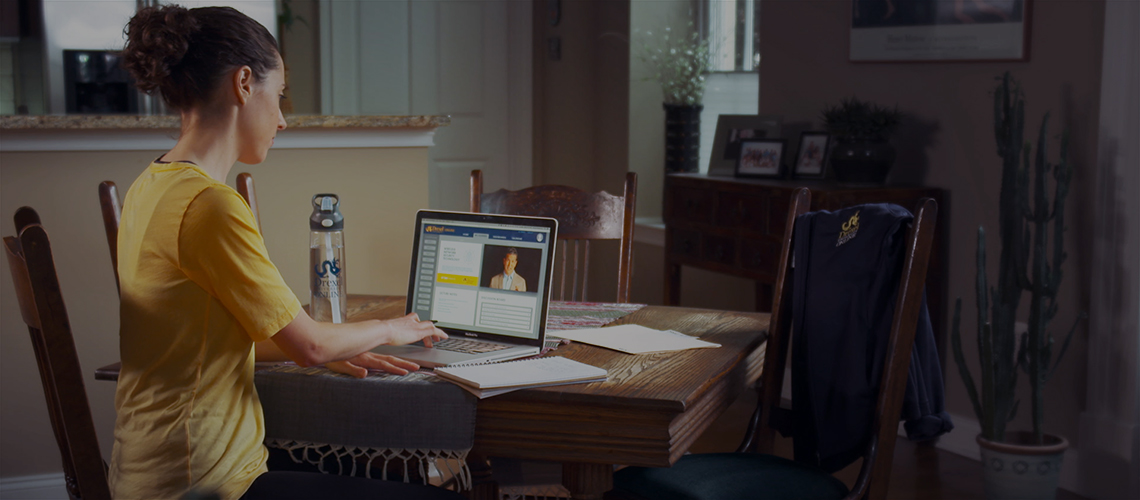
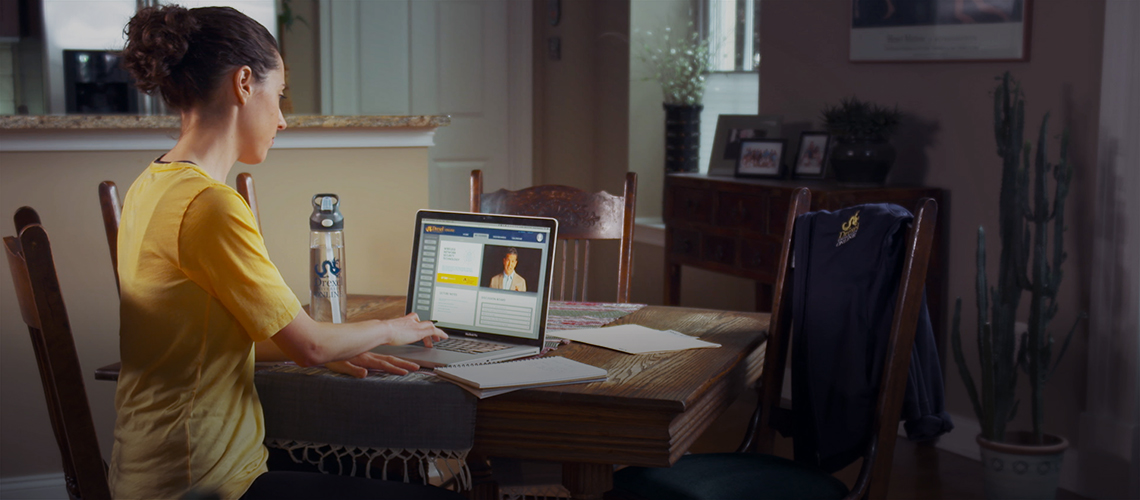
carousel changes

diff --git a/index-v2.html b/index-v2.html
@@ -69,7 +69,7 @@
       </ol>
       <div class="carousel-inner">
         <div class="item active">
-          <img src="images/slide1.jpg" alt="Student experience">
+          <img src="images/slide1.jpg" class="img-responsive" alt="Student experience">
           <div class="container">
             <div class="carousel-caption">
               <h1>Career focused education</h1>
@@ -121,7 +121,7 @@
     <div class="container" id="about">
 
 <!-- START THE FEATURETTES -->
-
+ <hr class="featurette-divider">
 
       <div class="row featurette">
         <div class="col-md-7">

diff --git a/css/custom.css b/css/custom.css
@@ -120,8 +120,7 @@ margin: 0 auto
 
 /* Carousel base class */
 .carousel {
-  height: 500px;
-  margin-bottom: 60px;
+  margin-bottom: 20px;
 }
 /* Since positioning the image, we need to help out the caption */
 .carousel-caption {
@@ -130,15 +129,15 @@ margin: 0 auto
 
 /* Declare heights because of positioning of img element */
 .carousel .item {
-  height: 500px;
+
   background-color: #777;
 }
 .carousel-inner > .item > img {
-  position: absolute;
+
   top: 0;
   left: 0;
-  min-width: 100%;
-  height: 500px;
+
+
 }
 
 
